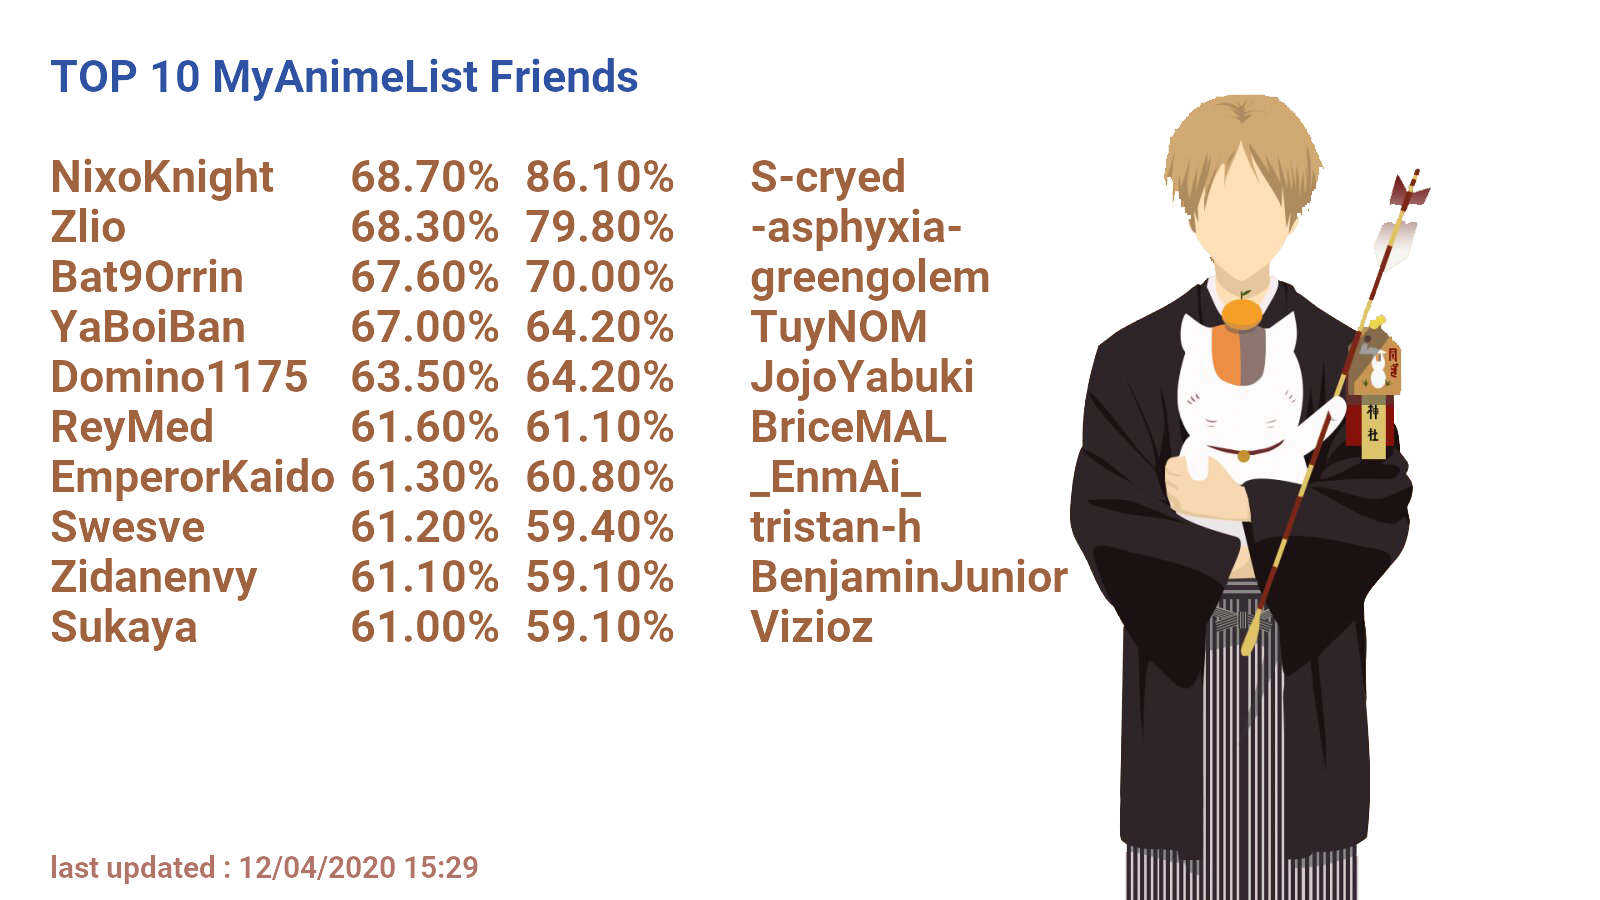
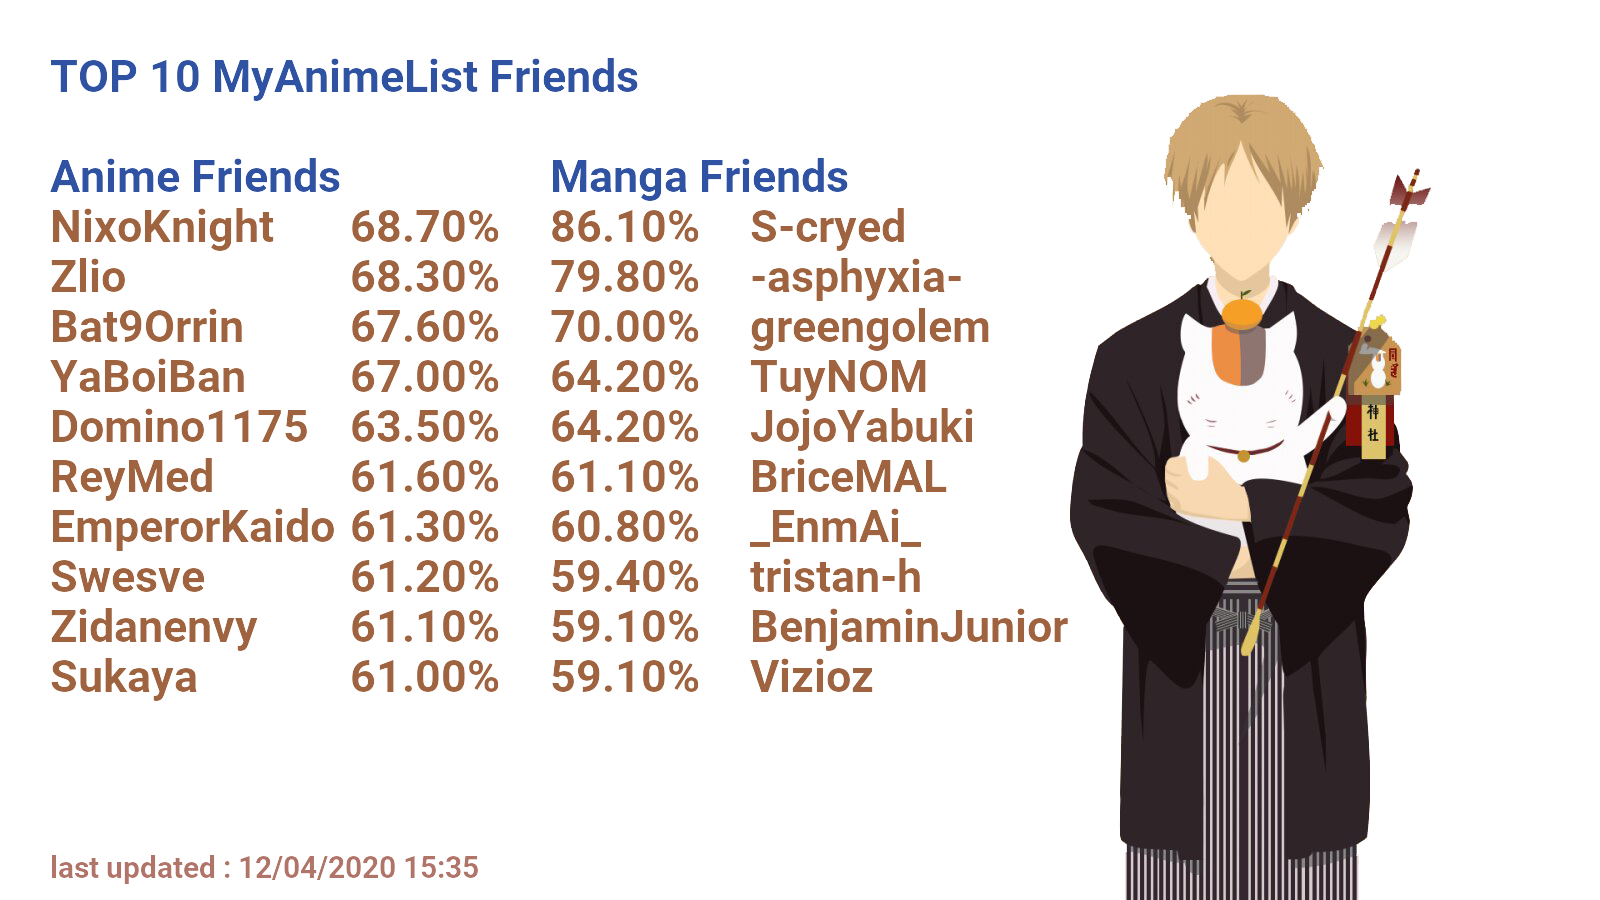
updates

diff --git a/AffinityScraperMAL/spiders/weebo.py b/AffinityScraperMAL/spiders/weebo.py
@@ -126,6 +126,16 @@ class MAL_spider(scrapy.Spider):
         color = 'rgb(47,82,162)' # black color
         draw.text((x, y), message, fill=color, font=font)
 
+        (x, y) = (50, 150)
+        message = "Anime Friends"
+        color = 'rgb(47,82,162)' # black color
+        draw.text((x, y), message, fill=color, font=font)
+
+        (x, y) = (550, 150)
+        message = "Manga Friends"
+        color = 'rgb(47,82,162)' # black color
+        draw.text((x, y), message, fill=color, font=font)
+
         (x, y) = (50, 850)
         lasttime = "last updated : " + dt_string
         color = 'rgb(177,116,104)'
@@ -139,17 +149,17 @@ class MAL_spider(scrapy.Spider):
 
         color = 'rgb(159, 99, 63)' # white color
         for i in range(0,10):
-            (x, y) = (50, 150)
+            (x, y) = (50, 200)
             y=y+(i*50)
             draw.text((x, y), names[i], fill=color, font=font)
-            (x, y) = (350, 150)
+            (x, y) = (350, 200)
             y=y+(i*50)
             draw.text((x, y), vars[i], fill=color, font=font)
 
-            (x, y) = (525, 150)
+            (x, y) = (550, 200)
             y=y+(i*50)
             draw.text((x, y), varsmanga[i], fill=color, font=font)
-            (x, y) = (750, 150)
+            (x, y) = (750, 200)
             y=y+(i*50)
             draw.text((x, y), namesmanga[i], fill=color, font=font)
 
